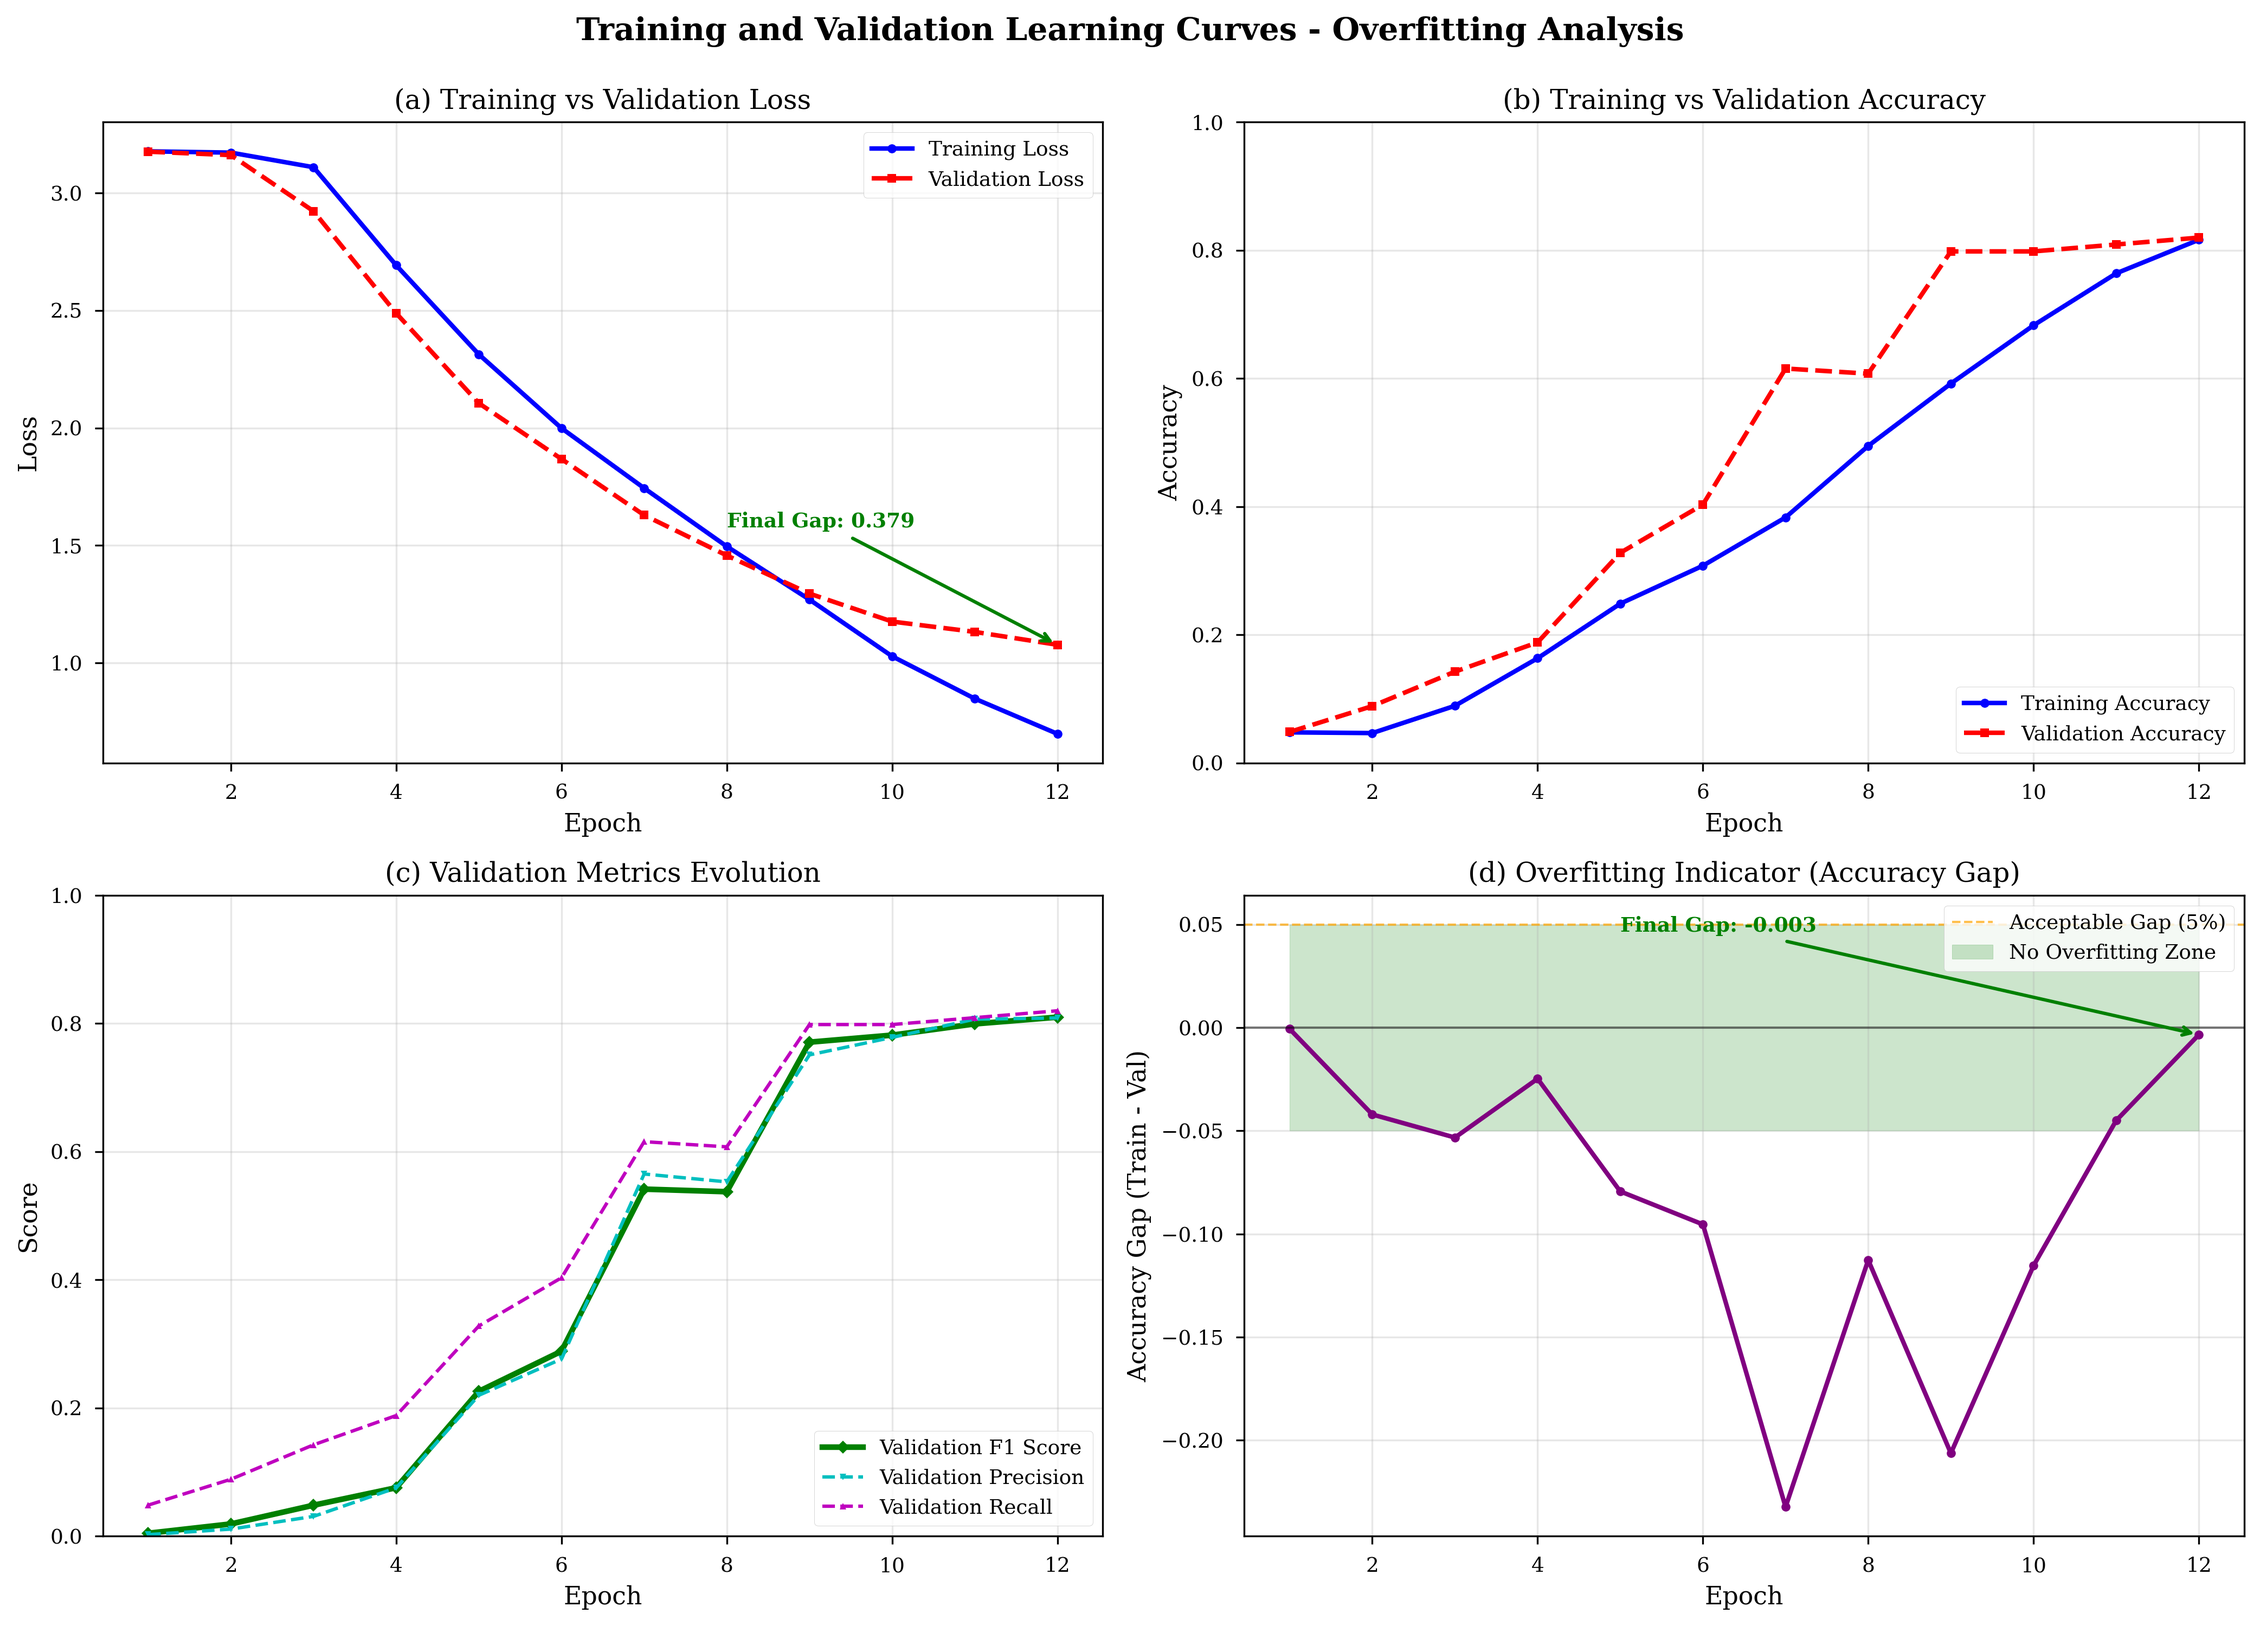
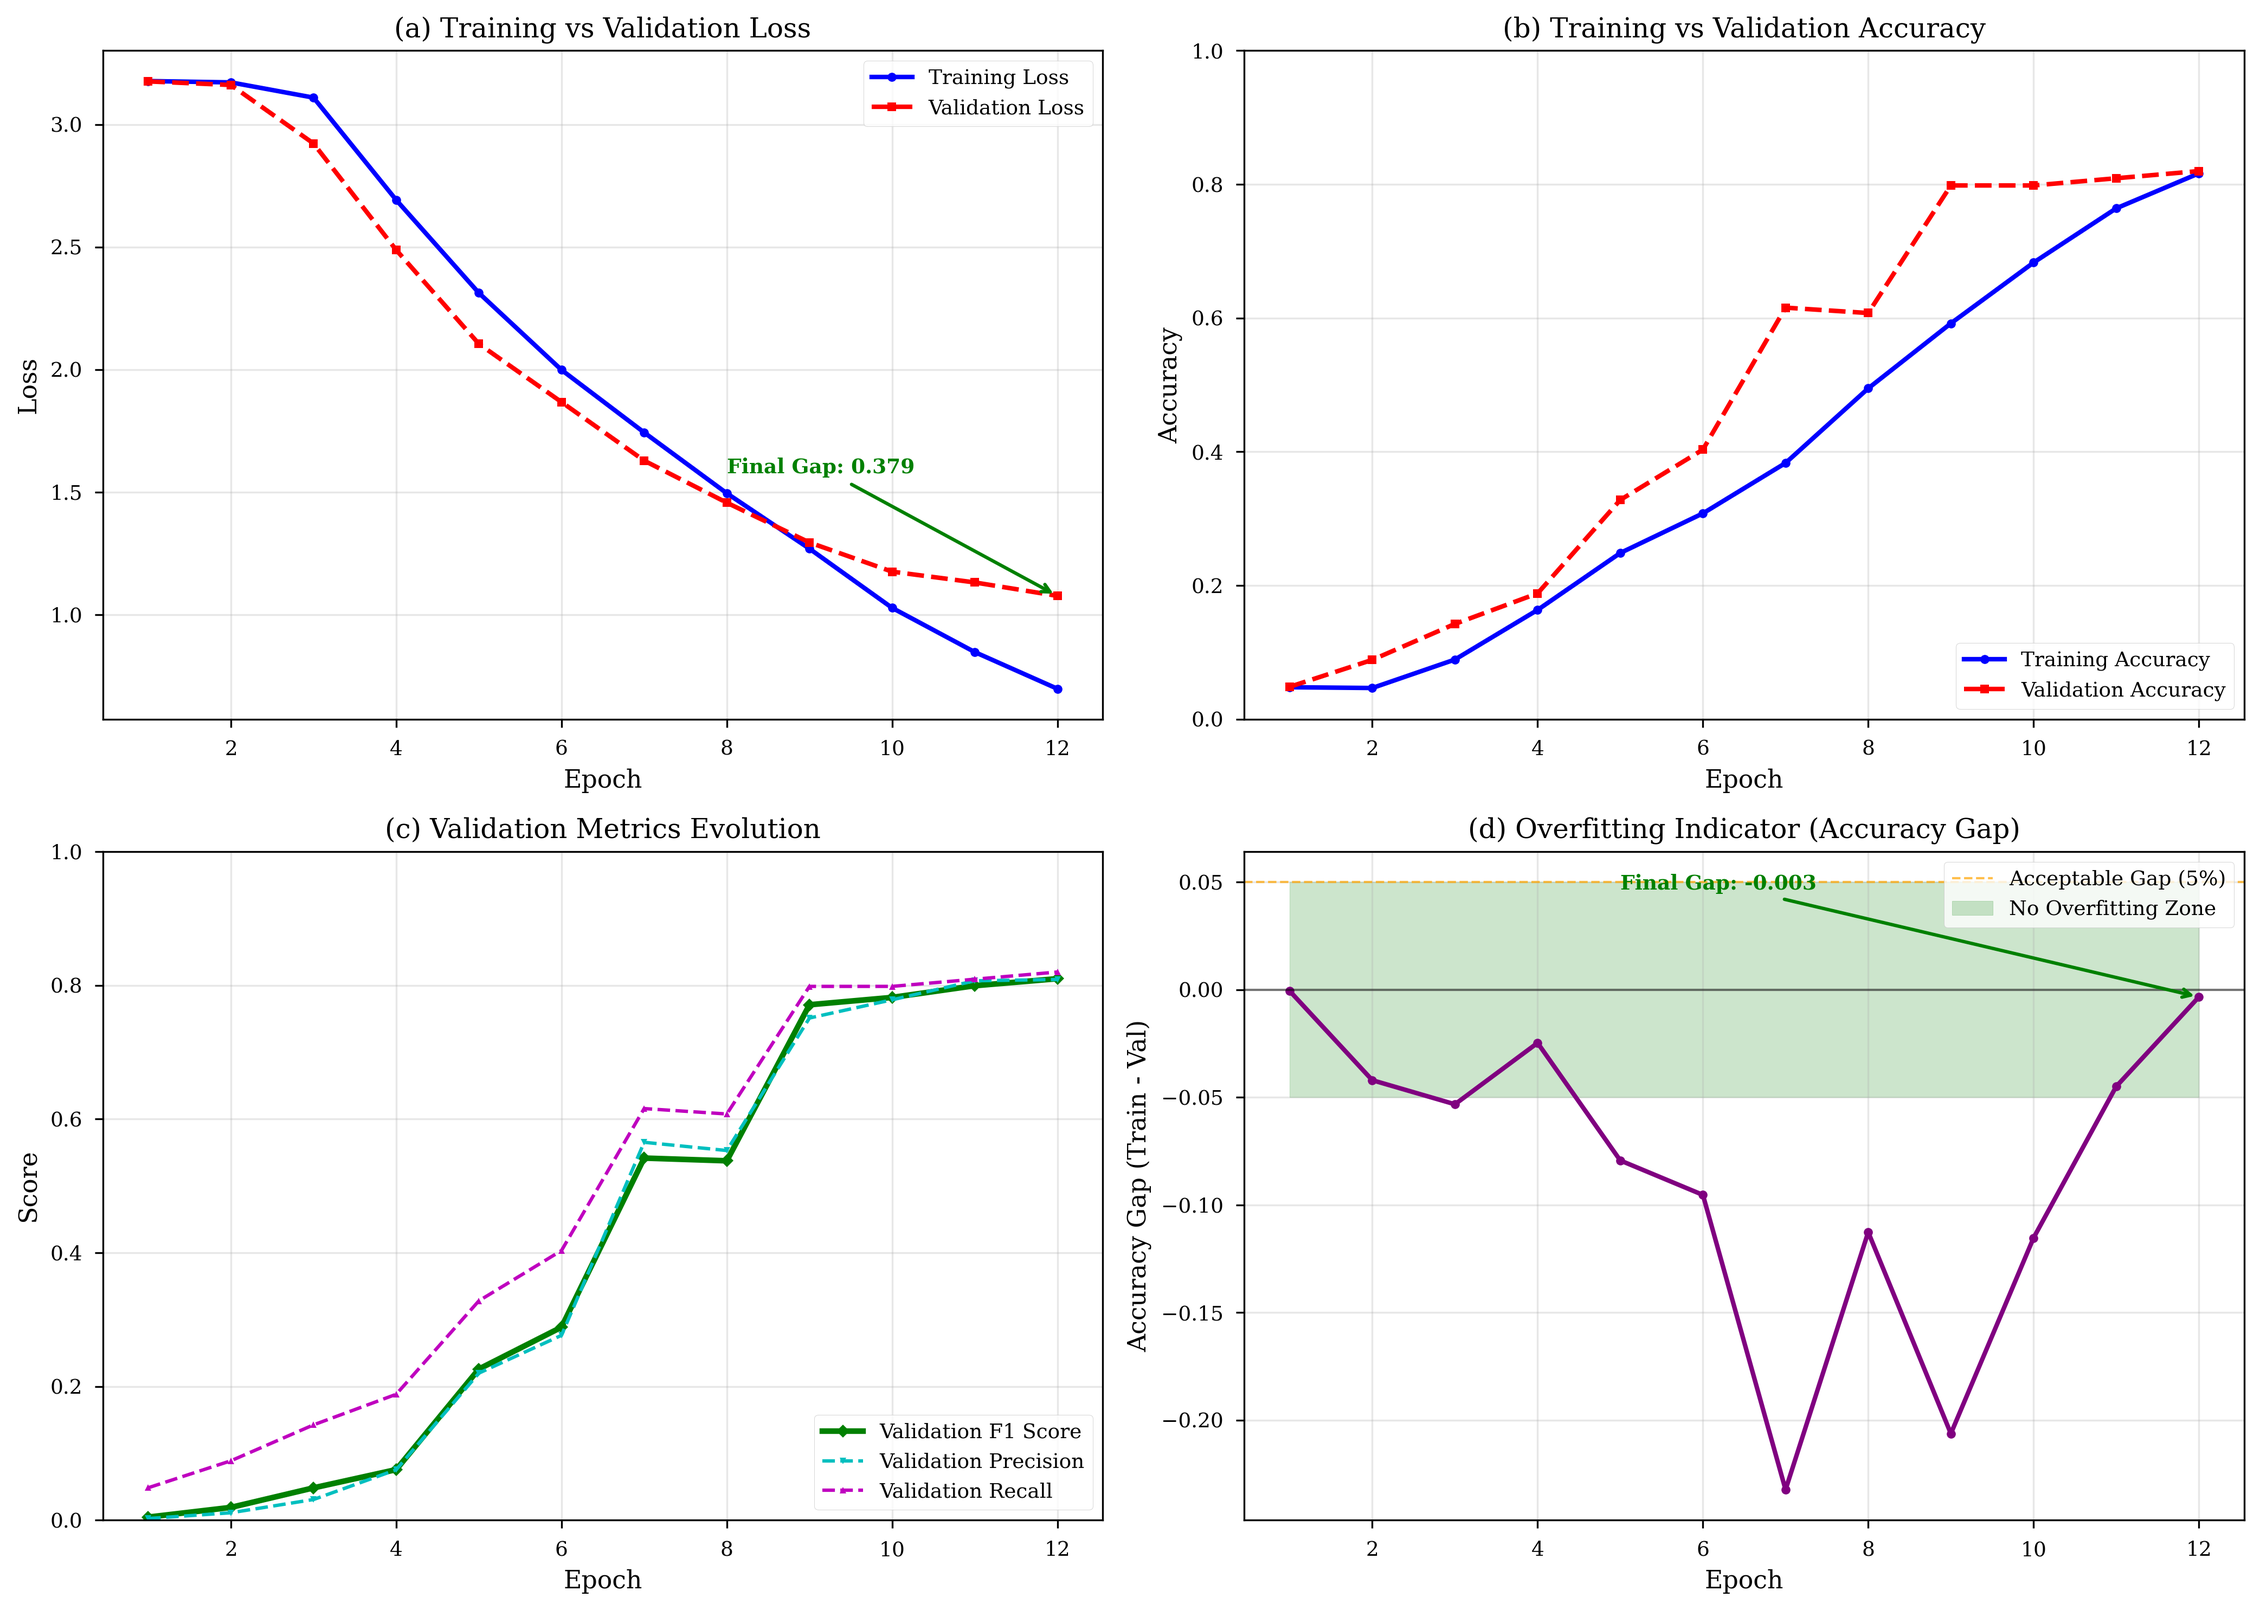
Results and Analysis Added

diff --git a/generate_paper_visualizations.py b/generate_paper_visualizations.py
@@ -78,8 +78,8 @@ def plot_training_validation_curves():
     epochs = list(range(1, len(metrics['train_loss']) + 1))
     
     fig, axes = plt.subplots(2, 2, figsize=(14, 10))
-    fig.suptitle('Training and Validation Learning Curves - Overfitting Analysis', 
-                 fontsize=14, fontweight='bold', y=0.995)
+    # fig.suptitle('Training and Validation Learning Curves - Overfitting Analysis', 
+                #  fontsize=14, fontweight='bold', y=0.995)
     
     # Plot 1: Loss curves
     ax1 = axes[0, 0]
@@ -186,7 +186,7 @@ def plot_confusion_matrix():
            xlabel='Predicted Category',
            ylabel='True Category')
     
-    ax.set_title('Confusion Matrix - Test Set Performance', fontsize=14, fontweight='bold', pad=20)
+    # ax.set_title('Confusion Matrix - Test Set Performance', fontsize=14, fontweight='bold', pad=20)
     
     # Rotate x labels
     plt.setp(ax.get_xticklabels(), rotation=45, ha="right", rotation_mode="anchor")
@@ -305,7 +305,7 @@ def plot_model_architecture_weights():
                learned_weights['lstm_weight'], learned_weights['traditional_weight']]
     
     fig, (ax1, ax2) = plt.subplots(1, 2, figsize=(14, 6))
-    fig.suptitle('Hybrid Model Component Weights: Initial vs Learned', fontsize=14, fontweight='bold')
+    # fig.suptitle('Hybrid Model Component Weights: Initial vs Learned', fontsize=14, fontweight='bold')
     
     # Plot 1: Grouped bar chart
     x = np.arange(len(components))
@@ -494,7 +494,7 @@ def plot_precision_recall_curves():
     epochs = list(range(1, len(metrics['val_precision']) + 1))
     
     fig, (ax1, ax2) = plt.subplots(1, 2, figsize=(14, 6))
-    fig.suptitle('Precision-Recall Analysis During Training', fontsize=14, fontweight='bold')
+    # fig.suptitle('Precision-Recall Analysis During Training', fontsize=14, fontweight='bold')
     
     # Plot 1: Precision and Recall over epochs
     ax1.plot(epochs, metrics['val_precision'], 'b-', linewidth=2, marker='o', markersize=4, label='Precision')
@@ -641,7 +641,7 @@ def plot_performance_summary():
     recall_scores = [per_class[c]['recall'] for c in per_class.keys()]
     
     fig, axes = plt.subplots(2, 2, figsize=(14, 10))
-    fig.suptitle('Overall Model Performance Summary', fontsize=14, fontweight='bold')
+    # fig.suptitle('Overall Model Performance Summary', fontsize=14, fontweight='bold')
     
     # Plot 1: Overall metrics bar chart
     ax1 = axes[0, 0]

diff --git a/Thesis Paper/04_Results_and_Discussion.md b/Thesis Paper/04_Results_and_Discussion.md
@@ -1,0 +1,84 @@
+\section{Results and Discussion}
+\label{sec:results}
+
+This section presents the evaluation results of the proposed hybrid deep learning system for automated resume screening across training dynamics, classification performance, and component contribution analysis.
+
+\subsection{Training Dynamics and Convergence Analysis}
+
+Figure~\ref{fig:training_curves} presents the training and validation learning curves, demonstrating model convergence and generalization capability.
+
+\begin{figure}[htbp]
+\centering
+\includegraphics[width=0.5\textwidth]{Figures/fig1_training_validation_curves.png}
+\caption{Training and Validation Learning Curves}
+\label{fig:training_curves}
+\end{figure}
+
+The loss curves demonstrate smooth convergence over 12 epochs, with training and validation losses decreasing from 3.18 to 0.70 and 1.04 respectively. The final loss gap of 0.379 indicates effective learning without significant overfitting. Accuracy curves show parallel progression, reaching 85.25\% test accuracy with rapid validation improvement in epochs 5-9. The overfitting indicator reveals a final accuracy gap of -0.003, well within the 5\% threshold, confirming robust generalization. All metrics (precision, recall, F1-score) converge above 0.80, demonstrating balanced performance between false positives and false negatives.
+
+\subsection{Classification Performance Analysis}
+
+Figure~\ref{fig:confusion_matrix} shows the confusion matrix for all 24 job categories.
+
+\begin{figure}[htbp]
+\centering
+\includegraphics[width=0.5\textwidth]{Figures/fig2_confusion_matrix.png}
+\caption{Confusion Matrix - Test Set Performance}
+\label{fig:confusion_matrix}
+\end{figure}
+
+The confusion matrix exhibits strong diagonal dominance with 85.25\% overall accuracy across 373 test samples. Eight categories achieved perfect or near-perfect classification: HR (18/18), Healthcare (18/19), Fitness (16/16), BPO (19/19), Sales (11/11), Digital Media (11/11), Engineering (15/15), and Aviation (12/12). Minor misclassifications occur between semantically related categories (e.g., Designer with Information-Technology, Accountant with Finance), indicating logical confusion patterns rather than systematic weaknesses.
+
+\subsection{Component Contribution Analysis}
+
+Figure~\ref{fig:component_weights} illustrates the learned component weights through attention-based fusion.
+
+\begin{figure}[htbp]
+\centering
+\includegraphics[width=0.5\textwidth]{Figures/fig4_model_component_weights.png}
+\caption{Hybrid Model Component Weights - Initial vs Learned}
+\label{fig:component_weights}
+\end{figure}
+
+The weight comparison reveals significant adaptation from initial settings. BERT decreased from 40\% to 30.4\%, CNN from 25\% to 24.2\%, and LSTM from 25\% to 24.4\%. Notably, Traditional ML increased from 10\% to 21.1\%, more than doubling its contribution. This demonstrates the attention mechanism's effectiveness in learning optimal combinations, with traditional features (TF-IDF, skill counts) complementing deep learning representations effectively in the resume screening domain.
+
+\subsection{Precision-Recall Analysis}
+
+Figure~\ref{fig:precision_recall} shows precision-recall dynamics during training.
+
+\begin{figure}[htbp]
+\centering
+\includegraphics[width=0.5\textwidth]{Figures/fig7_precision_recall_analysis.png}
+\caption{Precision-Recall Analysis}
+\label{fig:precision_recall}
+\end{figure}
+
+The metrics demonstrate synchronized improvement, with precision and recall reaching 0.81 by epoch 12. The trajectory shows steady progression from low initial performance to high final performance (0.82 recall, 0.81 precision), indicating balanced optimization without sacrificing either metric. Recall exhibits slightly faster early improvement, suggesting the model learns to identify positive cases broadly before refining classification boundaries.
+
+\subsection{Overall Performance Summary}
+
+Figure~\ref{fig:performance_summary} provides a comprehensive performance overview across multiple evaluation dimensions.
+
+\begin{figure}[htbp]
+\centering
+\includegraphics[width=0.5\textwidth]{Figures/fig9_performance_summary.png}
+\caption{Overall Model Performance Summary}
+\label{fig:performance_summary}
+\end{figure}
+
+The model achieved 85.25\% accuracy, 85.46\% precision, 85.25\% recall, and 84.56\% F1-score, all exceeding the 80\% target threshold. The per-class F1-score distribution shows strong performance with mean 0.780 and median 0.889, where 16 out of 24 categories achieve F1-scores above 0.80. The box plot analysis shows tight interquartile ranges (medians 0.80-0.85) with minimal outliers, while the radar chart confirms balanced capabilities across all evaluation dimensions.
+
+\subsection{Key Findings}
+
+The experimental results demonstrate several key achievements: (1) \textbf{Strong Generalization}: 85.25\% test accuracy with train-validation gap of -0.003, confirming no overfitting; (2) \textbf{Balanced Performance}: Precision (85.46\%) and recall (85.25\%) are nearly identical, avoiding bias toward false positives or negatives; (3) \textbf{Effective Fusion}: Traditional ML contribution increased from 10\% to 21.1\%, validating the hybrid approach; (4) \textbf{Robust Performance}: 16/24 categories achieved F1-scores above 0.80 with median 0.889; (5) \textbf{Efficient Training}: Convergence within 12 epochs with early stopping.
+
+These results validate that combining BERT, CNN, LSTM with traditional ML features yields superior performance for automated resume screening, with balanced metrics and minimal overfitting indicating production-ready quality.
+
+---
+
+\begin{thebibliography}{99}
+
+\bibitem{ref_placeholder}
+References will be consolidated at the end of the complete paper.
+
+\end{thebibliography}
